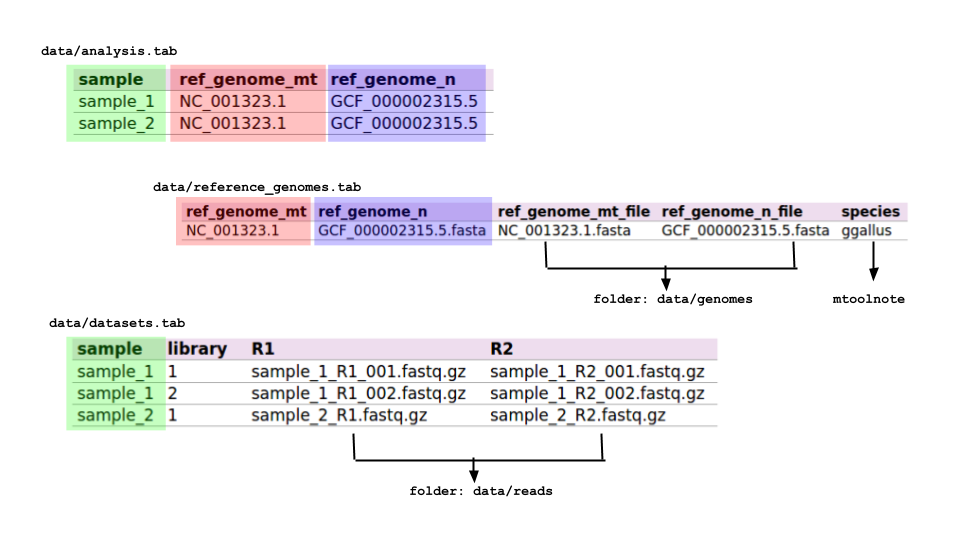
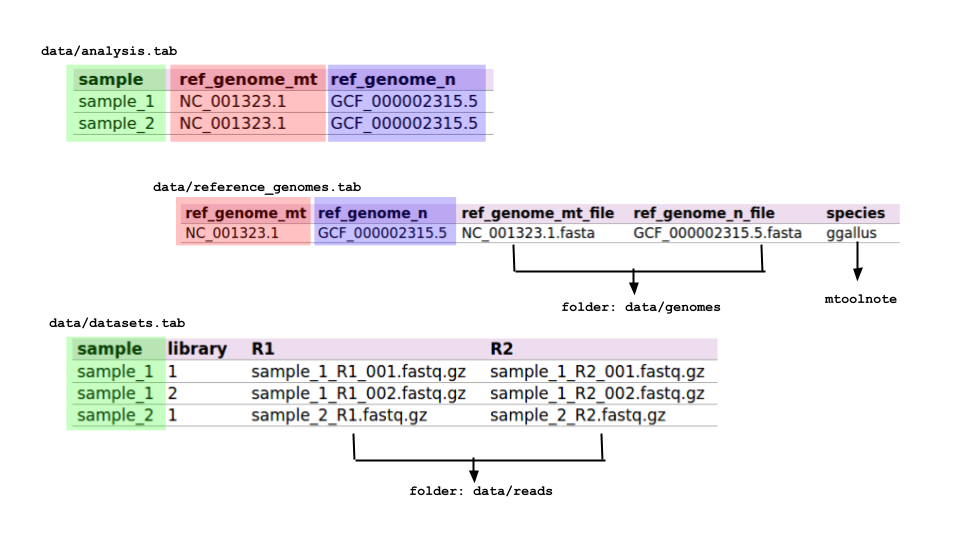
run-the-pipeline.rst: picture updated

Changed region(s): [[0.1875, 0.3556, 0.9688, 0.5926], [0.8438, 0.5333, 0.9375, 0.563]]

diff --git a/doc/_build/run-the-pipeline.html b/doc/_build/run-the-pipeline.html
@@ -127,11 +127,11 @@ cp <span class="nv">$MTOOLBOX_DIR</span>/data/*.tab data
 <p>Structure (strictly <strong>tab-separated</strong>):</p>
 <table border="1" class="docutils">
 <colgroup>
-<col width="17%" />
-<col width="26%" />
-<col width="22%" />
-<col width="26%" />
-<col width="10%" />
+<col width="18%" />
+<col width="20%" />
+<col width="24%" />
+<col width="27%" />
+<col width="11%" />
 </colgroup>
 <thead valign="bottom">
 <tr class="row-odd"><th class="head">ref_genome_mt</th>
@@ -143,7 +143,7 @@ cp <span class="nv">$MTOOLBOX_DIR</span>/data/*.tab data
 </thead>
 <tbody valign="top">
 <tr class="row-even"><td>NC_001323.1</td>
-<td>GCF_000002315.5.fasta</td>
+<td>GCF_000002315.5</td>
 <td>NC_001323.1.fasta</td>
 <td>GCF_000002315.5.fasta</td>
 <td>ggallus</td>

diff --git a/doc/run-the-pipeline.rst b/doc/run-the-pipeline.rst
@@ -85,11 +85,11 @@ In this example, the first row specifies that variant calling will be performed 
 
 Structure (strictly **tab-separated**):
 
-+---------------+-----------------------+--------------------+-----------------------+---------+
-| ref_genome_mt | ref_genome_n          | ref_genome_mt_file | ref_genome_n_file     | species |
-+===============+=======================+====================+=======================+=========+
-| NC_001323.1   | GCF_000002315.5.fasta | NC_001323.1.fasta  | GCF_000002315.5.fasta | ggallus |
-+---------------+-----------------------+--------------------+-----------------------+---------+
++---------------+-----------------+--------------------+-----------------------+---------+
+| ref_genome_mt | ref_genome_n    | ref_genome_mt_file | ref_genome_n_file     | species |
++===============+=================+====================+=======================+=========+
+| NC_001323.1   | GCF_000002315.5 | NC_001323.1.fasta  | GCF_000002315.5.fasta | ggallus |
++---------------+-----------------+--------------------+-----------------------+---------+
 
 This table contains explicit names for reference genome files used in the workflow. Names in the columns **ref_genome_mt** and **ref_genome_n** must be consistent with the ones in the same columns in the **data/analysis.tab** table. **Genome files must be located in the data/genomes folder**.
 
